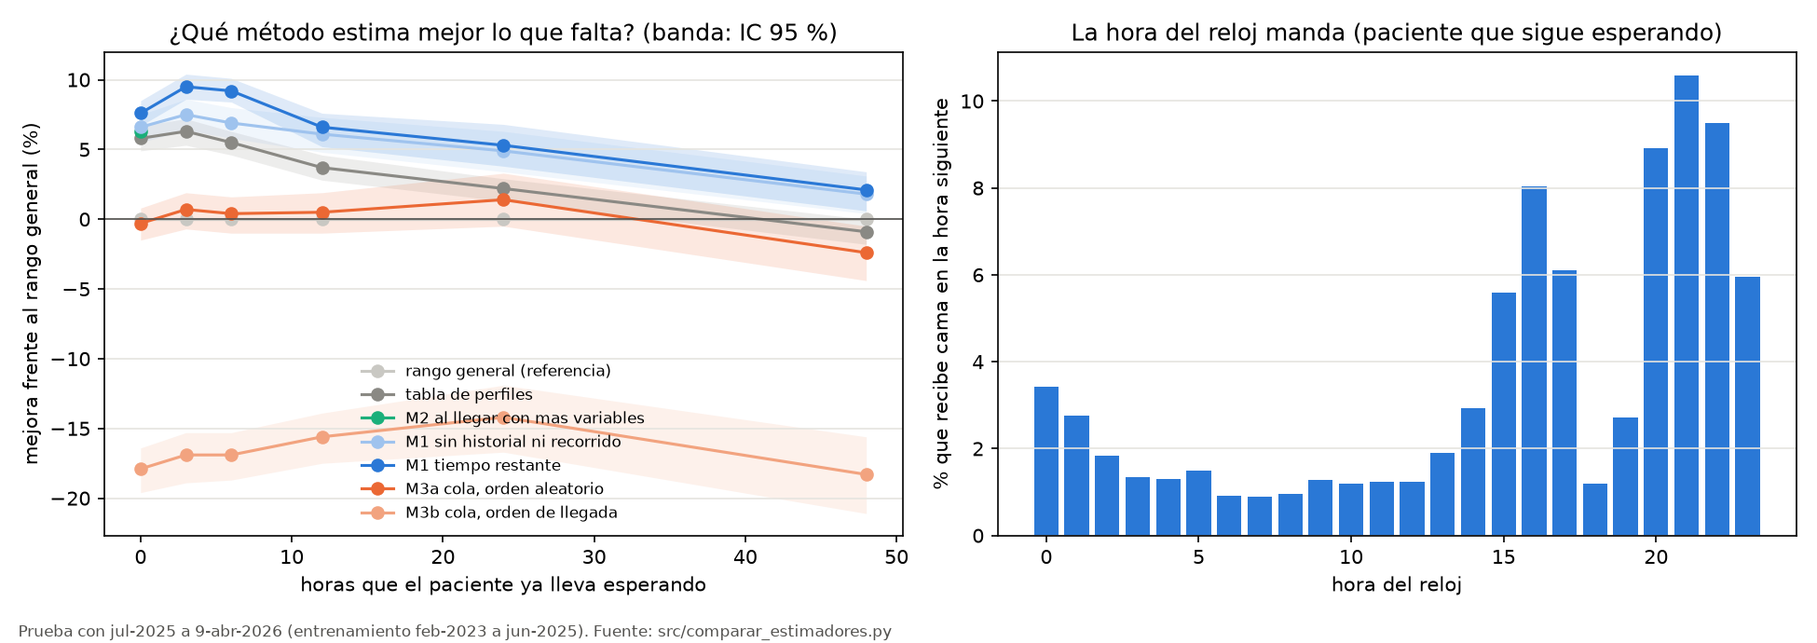
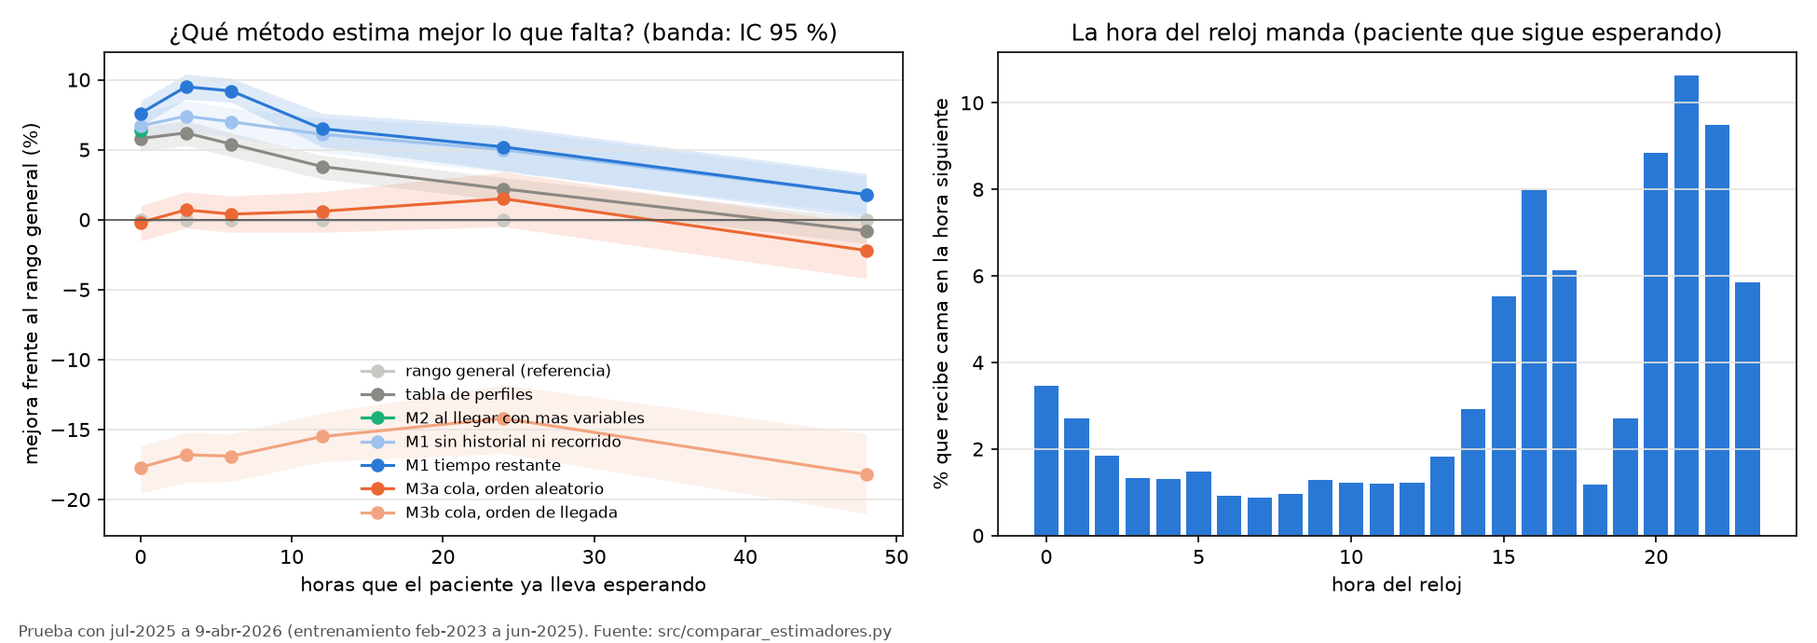
A6: recalcula los modelos con los procedimientos de cada estancia
Corrige edad y sexo con la persona real en las estancias del archivo, describe la espera por servicio y gravedad, y mide el escenario de conocerlos al llegar (de 7,6 % a 15,8 %, 18,6 % con el diagnostico).

diff --git a/src/procedimientos_escenario.py b/src/procedimientos_escenario.py
@@ -1,0 +1,110 @@
+"""
+procedimientos_escenario.py  -  version 1 (7-nov-2026)
+Tarea A6: recalcula los modelos con la informacion de los procedimientos (procedimientos_por_estancia.csv, extraido por Daniela para A2b).
+
+QUE MIDE
+  1. Descripcion: espera de cama segun el servicio que atendio al paciente y segun las marcas de gravedad (comparar_estimadores.procedimientos()).
+  2. Escenario: ¿cuanto mejoraria la estimacion si al llegar se supiera la gravedad y el servicio? Se recalculan los modelos que usan datos del paciente:
+       - el estimador final (tiempo restante: un modelo por momento antes de 12 h, solo historial despues),
+       - el modelo de cuantiles al llegar (M2),
+       - la tabla de perfiles (agregando el servicio como primera dimension),
+     con gravedad, con servicio, con ambos, con el grupo de diagnostico y con todo junto.
+     Los modelos de cola y las dos series no usan datos del paciente: los procedimientos no les cambian nada.
+
+OJO: los procedimientos NO tienen fecha. Una cesarea, una transfusion o el ingreso a UCI pueden ocurrir despues de recibir la cama, asi que el escenario es
+     una cota OPTIMISTA de lo que daria conocer la gravedad y el servicio al llegar, no un modelo que se pueda usar hoy. El 45 % de las estancias no tiene
+     ninguno de los 157 procedimientos del archivo (solo trae los que aparecen en 100 estancias o mas, y algunos menos frecuentes).
+
+LA PRUEBA  la misma de comparar_estimadores.py (entrenamiento feb-2023 a jun-2025, prueba jul-2025 a 9-abr-2026), al llegar y despues de 3, 6, 12 y 24 h.
+ENTRADAS  tabla_episodios.parquet (HUN_PROCESADOS); visit_detail.csv y procedimientos_por_estancia.csv (HUN_CRUDOS)
+SALIDAS   en HUN_TABLAS: procedimientos_espera_por_grupo.csv, procedimientos_escenario.csv
+COMO CORRERLO  HUN_PROCESADOS=... HUN_TABLAS=... HUN_CRUDOS=... python3 src/procedimientos_escenario.py   (~5 min)
+"""
+import sys
+from pathlib import Path
+
+import numpy as np
+import pandas as pd
+
+sys.path.insert(0, str(Path(__file__).resolve().parent))
+import comparar_estimadores as ce  # noqa: E402
+import estimador_tiempos as et  # noqa: E402
+
+NOMBRES_SERV = list(ce.SERVICIOS) + ["ninguno de esos servicios"]
+
+
+def describir(d):
+    filas = []
+    base = d.espera_cama_h
+    filas.append({"grupo": "todas las estancias", "estancias": len(d), "pct": 100.0, "espera_mediana_h": round(base.median(), 1), "espera_p90_h": round(base.quantile(.9), 1)})
+    for i, s in enumerate(NOMBRES_SERV):
+        g = d.loc[d.servicio_cod == i, "espera_cama_h"]
+        filas.append({"grupo": f"servicio: {s}", "estancias": len(g), "pct": round(100 * len(g) / len(d), 1), "espera_mediana_h": round(g.median(), 1), "espera_p90_h": round(g.quantile(.9), 1)})
+    for g_ in list(ce.GRAVEDAD):
+        g = d.loc[d[g_] == 1, "espera_cama_h"]
+        filas.append({"grupo": f"gravedad: {g_}", "estancias": len(g), "pct": round(100 * len(g) / len(d), 1), "espera_mediana_h": round(g.median(), 1), "espera_p90_h": round(g.quantile(.9), 1)})
+    for k in [0, 1, 2]:
+        g = d.loc[d.n_marcas_gravedad.clip(upper=2) == k, "espera_cama_h"]
+        filas.append({"grupo": f"marcas de gravedad: {k}{'+' if k == 2 else ''}", "estancias": len(g), "pct": round(100 * len(g) / len(d), 1),
+                      "espera_mediana_h": round(g.median(), 1), "espera_p90_h": round(g.quantile(.9), 1)})
+    return pd.DataFrame(filas)
+
+
+def perfiles_con_servicio(tr, te, desde):
+    dims = et.DIMS
+    try:
+        et.DIMS = ["servicio", "bloque_hora", "grupo_edad", "tipo_visita"]     # el servicio va primero: es lo ultimo que se quita si faltan casos
+        return ce.referencias(tr, te, desde)[1]
+    finally:
+        et.DIMS = dims
+
+
+if __name__ == "__main__":
+    pd.set_option("display.width", 230)
+    d, h, rejilla, estado = ce.preparar()
+    if "servicio_cod" not in d:
+        sys.exit("Falta procedimientos_por_estancia.csv en HUN_CRUDOS")
+    grupos = sorted(d.categoria_dx.dropna().unique())
+    d["dx_cod"] = d.categoria_dx.map({g: i for i, g in enumerate(grupos)})
+    d["servicio"] = pd.Series(NOMBRES_SERV)[d.servicio_cod.to_numpy()].to_numpy()
+
+    desc = describir(d)
+    desc.to_csv(ce.TABLAS / "procedimientos_espera_por_grupo.csv", index=False)
+    print("ESPERA DE CAMA POR SERVICIO Y GRAVEDAD (procedimientos sin fecha: descripcion, no causa)\n" + desc.to_string(index=False))
+
+    extras = {"sin procedimientos (estimador final)": [], "+ gravedad": ce.PROC_GRAV, "+ servicio": ce.PROC_SERV,
+              "+ gravedad y servicio": ce.PROC_GRAV + ce.PROC_SERV, "+ grupo de diagnostico": ["dx_cod"],
+              "+ todo (gravedad, servicio y diagnostico)": ce.PROC_GRAV + ce.PROC_SERV + ["dx_cod"]}
+    tr, te = d[d.ini_est < ce.CORTE].reset_index(drop=True), d[d.ini_est >= ce.CORTE].reset_index(drop=True)
+    filas = []
+    for desde in [0, 3, 6, 12, 24]:
+        sub = te[te.espera_cama_h > desde].reset_index(drop=True)
+        y = np.minimum(sub.espera_cama_h.to_numpy() - desde, ce.MAX_H)
+        general, perfil = ce.referencias(tr, sub, desde)
+        lg = ce.perdida_por_caso(y, general)
+        sem = sub.ini_est.dt.to_period("W").astype(str).to_numpy()
+        preds = {"tabla de perfiles": perfil, "tabla de perfiles + servicio": perfiles_con_servicio(tr, sub, desde)}
+        for nombre, extra in extras.items():
+            if desde < ce.HORAS_RECORRIDO:
+                m = ce.entrenar_landmark(tr, rejilla, estado, desde, ce.COLS_M1_FINAL + extra)
+            else:
+                m = ce.entrenar_m1(tr, rejilla, estado, ce.COLS_M1_BASE + ce.HIST + extra)
+            preds[f"estimador final {nombre}"] = ce.predecir_m1(m, sub, rejilla, estado, desde)
+        if desde == 0:
+            for nombre, extra in [("M2 al llegar", []), ("M2 al llegar + gravedad y servicio", ce.PROC_GRAV + ce.PROC_SERV)]:
+                cols = [c for c in ce.COLS_M2 if c != "cola0"] + extra
+                Xtr = ce.matriz_m2(tr, rejilla, estado).join(tr[extra]) if extra else ce.matriz_m2(tr, rejilla, estado)
+                Xte = ce.matriz_m2(sub, rejilla, estado).join(sub[extra]) if extra else ce.matriz_m2(sub, rejilla, estado)
+                ytr = np.log1p(tr.espera_cama_h.to_numpy())
+                pred = np.column_stack([np.expm1(ce.HistGradientBoostingRegressor(loss="quantile", quantile=q, max_iter=300, learning_rate=0.05, max_leaf_nodes=31,
+                                                                                   min_samples_leaf=100, random_state=ce.SEMILLA).fit(Xtr[cols], ytr).predict(Xte[cols]))
+                                        for q in ce.Q])
+                preds[nombre] = np.maximum.accumulate(np.clip(pred, 0, None), axis=1)
+        for nombre, p in preds.items():
+            lp = ce.perdida_por_caso(y, p)
+            lo, hi = ce.intervalo_mejora(sem, lp, lg)
+            filas.append({"horas_esperando": desde, "metodo": nombre, "n_prueba": len(y), "mejora_vs_general_pct": round(100 * (1 - lp.mean() / lg.mean()), 1),
+                          "ic95_bajo": round(lo, 1), "ic95_alto": round(hi, 1), "error_abs_mediana_h": round(np.mean(np.abs(y - p[:, 1])), 1),
+                          **{f"pct_debajo_p{int(q * 100)}": round(100 * np.mean(y <= p[:, j]), 1) for j, q in enumerate(ce.Q)}})
+        print(pd.DataFrame([f for f in filas if f["horas_esperando"] == desde]).to_string(index=False), flush=True)
+    pd.DataFrame(filas).to_csv(ce.TABLAS / "procedimientos_escenario.csv", index=False)

diff --git a/src/comparar_estimadores.py b/src/comparar_estimadores.py
@@ -35,6 +35,13 @@ HISTORIAL Y RECORRIDO (se conocen en el momento, sin trampa)
   ESTIMADOR FINAL: con menos de HORAS_RECORRIDO horas de espera, el modelo del momento (historial + recorrido); desde ahi, un solo modelo con el historial
   (el recorrido ya no suma: 6,8 frente a 6,6 % a las 12 h, 4,7 frente a 5,3 % a las 24 h). OJO: el corte de 12 h se eligio mirando la prueba.
 
+PROCEDIMIENTOS (si existe procedimientos_por_estancia.csv en HUN_CRUDOS; extraido por Daniela para A2b, lote 5)
+  1. Corrige la edad y el sexo de esas estancias con los de la persona real (CLAUDE.md 4.10), que trae el archivo.
+  2. Marca la GRAVEDAD (UCI, gases arteriales, lactato, troponina, transfusion, cateter central, hemocultivos, TAC de cabeza, monitoreo cardiaco) y el
+     SERVICIO que atendio al paciente (ginecobstetricia, cirugia general, urologia, ortopedia, psiquiatria, pediatria, endoscopia digestiva).
+  Los procedimientos NO tienen fecha: pueden ser de despues de recibir cama. Solo se usan como ESCENARIO (src/procedimientos_escenario.py), no en el
+  estimador final.
+
 COLA Y OCUPACION
   Por hora y por zona (adultos de 15 anos o mas, ninos), con estancias unicas: ocupacion = pacientes en cama; cola = pacientes que ya llegaron, se
   hospitalizaran y aun no tienen cama. OJO: la cola usa saber quien se hospitalizara despues; en el hospital equivale a los pacientes con orden de
@@ -103,12 +110,57 @@ def preparar():
     d["llegadas_6h"] = d.get("llegadas_6h_previas", pd.Series(np.nan, index=d.index))
     d = d.reset_index(drop=True)
     d["clave"] = np.arange(len(d))
+    d = procedimientos(d)
     d = historial(t, d)
     cargar_etapas(d)
     return d, h, rejilla, estado
 
 
 GRUPOS_DX = None
+GRAVEDAD = {"uci": [4137917], "gases_arteriales": [4239236], "lactato": [3014111], "troponina": [3033745],
+            "transfusion": [4323715, 4219996, 4205859, 4271693], "cateter_central": [4322380], "hemocultivo": [4252846, 4252847],
+            "tac_cabeza": [4125350], "monitoreo_cardiaco": [4144544]}
+SERVICIOS = {   # en orden de prioridad para el servicio principal
+    "ginecobstetricia": [4138639, 4149939, 4070024, 37312440, 42536960, 4170107, 4324607, 44790279, 37016955, 4073278, 4064145, 4149132,
+                         4015701, 4327269, 4062216],
+    "cirugia_general": [4139904, 4198190, 4163971, 2003447, 43531100, 4119555, 37157276, 4157529, 4125906, 4134713],
+    "urologia": [4125854, 4305063, 46232820, 4171400, 3031769],
+    "ortopedia": [37208848, 37016880, 2790145, 37016878, 1072908, 37204684, 1072944, 3009096, 37204683, 37019010],
+    "psiquiatria": [4136624, 4012657, 4230209, 4013683],
+    "pediatria": [4080075],
+    "endoscopia_digestiva": [4294382, 4249893],
+}
+PROC_GRAV = list(GRAVEDAD) + ["n_marcas_gravedad"]
+PROC_SERV = ["servicio_cod"] + list(SERVICIOS)
+
+
+def procedimientos(d):
+    """Corrige edad y sexo con la persona real y agrega gravedad y servicio desde procedimientos_por_estancia.csv (si existe)."""
+    ruta = CRUDOS / "procedimientos_por_estancia.csv"
+    if not ruta.exists():
+        return d
+    pr = pd.read_csv(ruta)
+    pers = pr.drop_duplicates("estancia_id").set_index("estancia_id")[["grupo_edad", "sexo"]]
+    m = d.estancia_id.map(pers.grupo_edad)
+    s = d.estancia_id.map(pers.sexo)
+    d["grupo_edad"] = m.fillna(d.grupo_edad)
+    d["sexo"] = s.where(s.isin(["Mujer", "Hombre"]), d.sexo)
+    d["edad_cod"] = d.grupo_edad.map({e: i for i, e in enumerate(et.EDADES)})
+    d["sexo_cod"] = (d.sexo == "Mujer").astype(int)
+    d["zona"] = np.where(d.grupo_edad.isin(["0-4", "5-14"]), "ninos", "adultos")
+    d["zona_cod"] = (d.zona == "ninos").astype(int)
+    tiene = pr.groupby("estancia_id").concepto.apply(set)
+    conj = d.estancia_id.map(tiene)
+    d["con_procedimientos"] = conj.notna().astype(int)
+    vacio = set()
+    for nombre, ids in {**GRAVEDAD, **SERVICIOS}.items():
+        d[nombre] = [int(bool((c if isinstance(c, set) else vacio) & set(ids))) for c in conj]
+    d["n_marcas_gravedad"] = d[list(GRAVEDAD)].sum(axis=1)
+    serv = np.full(len(d), len(SERVICIOS))                  # ultimo codigo = ninguno de esos servicios
+    for i, nombre in reversed(list(enumerate(SERVICIOS))):
+        serv = np.where(d[nombre] == 1, i, serv)
+    d["servicio_cod"] = serv
+    return d
 
 
 def historial(t, d):
@@ -247,7 +299,7 @@ HIST = ["espera_prev_h", "estancia_prev_h", "n_hosp_previas", "dias_desde_hosp",
 REC = ["n_tu_iniciadas", "n_tu_cerradas_antes", "n_tu_sin_cierre", "horas_tu_cerradas_antes", "horas_desde_ultimo_inicio", "n_admisiones"]
 DINAMICAS = ["transcurrido", "hora_reloj", "dia_semana", "cola", "ocup"] + REC
 COLS_M1 = ["transcurrido", "hora_reloj", "dia_semana", "cola", "ocup", "edad_cod", "tipo_cod", "sexo_cod", "zona_cod"]
-CATEGORICAS = ["hora_reloj", "dia_semana", "tipo_cod", "dx_cod", "dx_previo_cod"]
+CATEGORICAS = ["hora_reloj", "dia_semana", "tipo_cod", "dx_cod", "dx_previo_cod", "servicio_cod"]
 COLS_M1_BASE = [c for c in COLS_M1 if c != "cola"]      # la cola no mejora la estimacion y no se conoce del todo en el momento
 COLS_M1_FINAL = COLS_M1_BASE + HIST + REC
 

diff --git a/docs/estimador_tiempos.md b/docs/estimador_tiempos.md
@@ -7,7 +7,7 @@
 2. **El estimador es un modelo de tiempo restante.** Para un paciente que espera cama, da el rango de lo que le falta (percentiles 25, 50, 75 y 90) y la probabilidad de recibir cama en 6, 12 y 24 horas, y se recalcula a medida que pasa la espera. Usa el paciente, la hora del reloj, la ocupación, su historial de hospitalizaciones y su recorrido en urgencias, todo conocido en el momento. Se consulta con `estimar_tiempo_restante()`.
 3. **Funciona mejor que todo lo demás que probamos, pero el techo es bajo.** Mejora el rango 7,6 % al llegar y 9,2–9,5 % entre las 3 y las 6 horas de espera, frente a darle a todos el mismo rango. Sus percentiles aciertan en datos nuevos, y le gana con margen comprobado a las otras cinco alternativas.
 4. **Lo que más decide cuándo llega la cama es la hora del reloj:** entre las 6 y las 12 h casi nadie recibe cama; las camas se asignan entre las 15 y las 17 h y entre las 20 y las 23 h.
-5. **Lo que de verdad lo mejoraría es registrar el triage.** Con una aproximación a la gravedad al llegar, la mejora llega a 12,7 %, más que con cualquier cambio de modelo.
+5. **Lo que de verdad lo mejoraría es saber, al llegar, la gravedad y el servicio.** Los procedimientos de cada estancia muestran que el hospital da cama rápido a los graves (UCI: mediana 2,7 h) y hace esperar más a cirugía, urología y ortopedia (30–38 h). Si esa información se conociera al llegar, la mejora pasaría de 7,6 % a 15,8 %, y a 18,6 % sumando el diagnóstico. Es más que cualquier cambio de modelo, y es el argumento para registrar el triage y el servicio en la base.
 
 ---
 
@@ -28,7 +28,26 @@ Los datos crudos lo confirman: el 24 % de las camas se asigna entre las 15 y las
 
 **1.4 El recorrido en urgencias.** Son los registros de las etapas de urgencias de la propia visita (`visit_detail`). En tiempo real, sin trampa, se puede saber cuántas etapas de atención empezaron, cuántas cerraron y cuántas siguen abiertas. Por ejemplo, quien a las 6 h tiene 2 o más etapas abiertas a la vez (~5 % de los pacientes) recibe cama mucho antes: le faltan unas 5 h en la mediana, contra 23 h para el resto.
 
-**1.5 Lo que no está: la gravedad.** En urgencias la prioridad se define con el triage, de I (inmediata) a V (muy baja). La base no lo trae: no está en ninguna tabla y la etapa 9203 solo trae la hora. La sección 4 estima cuánto ayudaría.
+**1.5 La gravedad y el servicio.** En urgencias la prioridad se define con el triage, de I (inmediata) a V (muy baja). La base no lo trae: no está en ninguna tabla, la etapa 9203 solo trae la hora y entre los 157 procedimientos frecuentes no hay ninguno llamado «triage». Lo que sí hay son los **procedimientos de cada estancia** (`procedimientos_por_estancia.csv`, extraído por Daniela para A2b). Con ellos se marcaron dos cosas:
+- **Gravedad:** UCI, gases arteriales, lactato, troponina, transfusión, catéter central, hemocultivos, TAC de cabeza y monitoreo cardiaco.
+- **Servicio que atendió al paciente:** ginecobstetricia, cirugía general, urología, ortopedia, psiquiatría, pediatría y endoscopia digestiva, según interconsultas, remisiones y cirugías.
+
+| Grupo | % de las estancias | Espera mediana | p90 |
+|---|---|---|---|
+| Todas | 100 % | 18,5 h | 72,9 h |
+| **Urología** | 4,1 % | **37,7 h** | 105,1 h |
+| **Ortopedia** | 3,2 % | **32,8 h** | 106,0 h |
+| **Cirugía general** | 11,5 % | **29,6 h** | 89,2 h |
+| Endoscopia digestiva | 1,2 % | 26,4 h | 76,4 h |
+| Ginecobstetricia | 12,2 % | 15,9 h | 38,4 h |
+| Psiquiatría | 2,7 % | 15,0 h | 70,2 h |
+| Pediatría | 0,9 % | 7,3 h | 22,7 h |
+| Ninguno de esos servicios | 64,1 % | 14,9 h | 69,7 h |
+| **Ingreso a UCI** | 3,8 % | **2,7 h** | 36,5 h |
+| Hemocultivo | 10,9 % | 5,5 h | 75,5 h |
+| Troponina | 4,9 % | 6,9 h | 49,5 h |
+
+**Lectura:** el hospital da cama rápido a los pacientes graves y hace esperar más a los quirúrgicos y urológicos. Es el mismo patrón que mostraban los diagnósticos (`HALLAZGOS.md` 4.5b), ahora visto desde los servicios. **Ojo: los procedimientos no tienen fecha.** Algunos pueden haber ocurrido después de recibir la cama (una cesárea, una transfusión), y el catéter central, por ejemplo, aparece en estancias muy largas porque se pone durante ellas (espera mediana 47,4 h). Es una descripción, no una causa.
 
 ---
 
@@ -63,11 +82,11 @@ estimar_tiempo_restante(edad=67, sexo="Mujer", tipo_visita="Urgencias", horas_es
 
 | Paciente | Faltan: p25 / mediana / p75 / p90 | Prob. de cama en 6 / 12 / 24 h |
 |---|---|---|
-| Mujer de 67 años, urgencias, recién llegada a las 9:00, sin historial | 12,0 / 32,1 / 56,9 / 84,7 h | 15 / 25 / 41 % |
-| La misma, con 2 hospitalizaciones previas (la última: 60 h de espera, 200 h de estancia) | 20,0 / 39,9 / 77,1 / 109,3 h | 5 / 13 / 26 % |
-| La misma sin historial, 6 h después: una etapa cerrada y una abierta | 10,8 / 30,5 / 54,9 / 96,7 h | 12 / 26 / 33 % |
-| La misma sin historial, 6 h después: tres etapas abiertas | 5,5 / 7,7 / 24,3 / 31,5 h | 32 / 67 / 74 % |
-| Niña de 8 años, urgencias, recién llegada a las 22:00 | 4,3 / 13,6 / 23,4 / 45,7 h | 33 / 47 / 77 % |
+| Mujer de 67 años, urgencias, recién llegada a las 9:00, sin historial | 12,1 / 32,2 / 56,7 / 84,4 h | 15 / 25 / 41 % |
+| La misma, con 2 hospitalizaciones previas (la última: 60 h de espera, 200 h de estancia) | 15,8 / 37,8 / 63,6 / 108,2 h | 6 / 13 / 28 % |
+| La misma sin historial, 6 h después: una etapa cerrada y una abierta | 10,6 / 30,4 / 54,9 / 96,1 h | 12 / 26 / 33 % |
+| La misma sin historial, 6 h después: tres etapas abiertas | 5,5 / 7,8 / 24,4 / 31,6 h | 31 / 65 / 74 % |
+| Niña de 8 años, urgencias, recién llegada a las 22:00 | 4,6 / 14,8 / 23,7 / 46,2 h | 31 / 45 / 76 % |
 
 ---
 
@@ -78,43 +97,58 @@ estimar_tiempo_restante(edad=67, sexo="Mujer", tipo_visita="Urgencias", horas_es
 
 | Horas esperando | Tabla de perfiles | Modelo sin historial ni recorrido | + historial | **Estimador final** (IC 95 %) |
 |---|---|---|---|---|
-| 0 (al llegar) | 5,8 % | 6,6 % | 7,6 % | **7,6 % (6,7 a 8,5)** |
-| 3 h | 6,3 % | 7,5 % | 8,2 % | **9,5 % (8,6 a 10,4)** |
-| 6 h | 5,5 % | 6,9 % | 7,6 % | **9,2 % (8,4 a 10,1)** |
-| 12 h | 3,7 % | 6,1 % | 6,6 % | **6,6 % (5,2 a 7,6)** |
-| 24 h | 2,2 % | 4,9 % | 5,3 % | **5,3 % (3,8 a 6,8)** |
-| 48 h | −0,9 % | 1,8 % | 2,1 % | **2,1 % (0,6 a 3,4)** |
+| 0 (al llegar) | 5,8 % | 6,7 % | 7,5 % | **7,6 % (6,7 a 8,5)** |
+| 3 h | 6,2 % | 7,4 % | 8,2 % | **9,5 % (8,6 a 10,4)** |
+| 6 h | 5,4 % | 7,0 % | 7,6 % | **9,2 % (8,4 a 10,1)** |
+| 12 h | 3,8 % | 6,1 % | 6,5 % | **6,5 % (5,2 a 7,6)** |
+| 24 h | 2,2 % | 5,0 % | 5,2 % | **5,2 % (3,5 a 6,7)** |
+| 48 h | −0,8 % | 1,8 % | 1,8 % | **1,8 % (0,1 a 3,3)** |
 
-**¿Aciertan los percentiles?** Lo ideal es que el 25 / 50 / 75 / 90 % de los casos nuevos quede por debajo de cada uno. Con el estimador final quedan 26,3 / 51,4 / 73,8 / 87,7 % al llegar y 25,8 / 49,6 / 71,8 / 86,9 % a las 6 h. El p90 queda algo corto (87–88 %) porque los peores casos siguen empeorando (`HALLAZGOS.md` 4.3); conviene leerlo como un piso.
+**¿Aciertan los percentiles?** Lo ideal es que el 25 / 50 / 75 / 90 % de los casos nuevos quede por debajo de cada uno. Con el estimador final quedan 26,5 / 51,7 / 74,0 / 87,8 % al llegar y 25,9 / 49,3 / 71,9 / 87,2 % a las 6 h. El p90 queda algo corto (87–88 %) porque los peores casos siguen empeorando (`HALLAZGOS.md` 4.3); conviene leerlo como un piso.
 
 **Cómo leerlo:**
-- **Contra la tabla de perfiles, la ventaja es real en todos los momentos:** el intervalo de la diferencia nunca incluye el 0 (+1,3 a +2,5 puntos al llegar; +3,3 a +4,8 a las 6 h).
-- **Contra el modelo de cuantiles al llegar,** que era el segundo mejor, la ventaja también es real: +0,9 a +1,9 puntos.
+- **Contra la tabla de perfiles, la ventaja es real en todos los momentos:** el intervalo de la diferencia nunca incluye el 0 (+1,3 a +2,6 puntos al llegar; +3,3 a +4,9 a las 6 h).
+- **Contra el modelo de cuantiles al llegar,** que era el segundo mejor, la ventaja también es real: +0,8 a +1,8 puntos.
 - **El historial suma desde la llegada, y el recorrido en las primeras horas** (probado a las 3 y a las 6 h). Desde las 12 h, la espera depende de otras cosas.
 - **El techo es bajo:** el error de la mediana sigue siendo de unas 24 h al llegar.
 
-**Agosto y septiembre de 2025.** Según el equipo, el HUN tuvo sobredemanda porque los hospitales cercanos fueron intervenidos por el Estado y quedó como la única opción de la zona. En los datos se ve poco: un 6–7 % más de llegadas que en los mismos meses de 2024, con ingresos a cama y espera mediana normales. Evaluado aparte, el estimador mejora 7,3 % en esos meses y 7,7 % en el resto. El resultado se sostiene.
+**Agosto y septiembre de 2025.** Según el equipo, el HUN tuvo sobredemanda porque los hospitales cercanos fueron intervenidos por el Estado y quedó como la única opción de la zona. En los datos se ve poco: un 6–7 % más de llegadas que en los mismos meses de 2024, con ingresos a cama y espera mediana normales. Evaluado aparte, el estimador mejora 7,2 % en esos meses y 7,7 % en el resto. El resultado se sostiene.
+
+**Edad y sexo corregidos.** Las cifras de esta sección ya usan la edad y el sexo de la persona real en las 14.126 estancias que trae `procedimientos_por_estancia.csv` (difieren de los nuestros en el 4 % de esas estancias en la edad y en el 2 % en el sexo). Con la corrección, los resultados prácticamente no cambian.
 
 ---
 
-## 4. Qué haría falta para mejorarlo
-**La gravedad (triage).** Código: `src/triage_aproximado.py`. Se probaron dos aproximaciones dentro del modelo con historial, y ninguna es el triage:
-- **Laboratorios de las primeras 6 h:** se conocen a las 6 h.
-- **Grupo de diagnóstico:** el 88 % se registra tarde y el 35 % de las estancias no tiene ninguno. Se usa como **escenario**: «¿cuánto mejoraría si el HUN registrara la gravedad al llegar?».
+## 4. Qué haría falta para mejorarlo: la gravedad y el servicio al llegar
+Código: `src/procedimientos_escenario.py` (procedimientos) y `src/triage_aproximado.py` (laboratorios). Se recalcularon todos los modelos que usan datos del paciente agregando lo que dicen los procedimientos (gravedad y servicio, sección 1.5) y el grupo de diagnóstico. Los modelos de cola y las dos series no usan datos del paciente, así que no cambian.
 
-| Horas esperando | Sin gravedad | + laboratorios de 6 h | + grupo de diagnóstico (escenario) |
-|---|---|---|---|
-| Al llegar | 7,6 % | 8,0 % (no válido: se conocen a las 6 h) | **12,7 %** |
-| 6 h | 7,6 % | 7,6 % | **10,9 %** |
-| 12 h | 6,6 % | 6,5 % | 9,0 % |
-| 24 h | 5,3 % | 4,8 % | 6,5 % |
-| 48 h | 2,1 % | 1,8 % | 2,0 % |
+**Es un escenario, no un modelo para hoy:** los procedimientos no tienen fecha y el 88 % de los diagnósticos se registra tarde. La pregunta es «¿cuánto mejoraría si el hospital supiera esto al llegar?», y la respuesta es una cota optimista.
 
-Una medida de gravedad al llegar mejoraría más que cualquier cambio de modelo, y un triage real debería servir más que el diagnóstico. Es un argumento concreto para la recomendación R1 (`docs/recomendaciones.md`): **registrar el nivel de triage en la base.** Los laboratorios tempranos casi no ayudan.
+**Estimador final** (mejora frente al rango general):
+
+| Horas esperando | Sin procedimientos | + gravedad | + servicio | + gravedad y servicio | + diagnóstico | **+ todo** |
+|---|---|---|---|---|---|---|
+| Al llegar | 7,6 % | 11,7 % | 11,5 % | 15,8 % | 12,5 % | **18,6 % (17,5 a 19,8)** |
+| 3 h | 9,5 % | 12,0 % | 13,0 % | 15,0 % | 12,3 % | **16,9 %** |
+| 6 h | 9,2 % | 11,2 % | 11,9 % | 13,6 % | 12,1 % | **15,3 %** |
+| 12 h | 6,5 % | 9,1 % | 8,9 % | 11,2 % | 9,4 % | **12,3 %** |
+| 24 h | 5,2 % | 8,1 % | 7,1 % | 9,6 % | 7,3 % | **9,4 %** |
+
+**Los otros modelos con la misma información, al llegar:**
+- **Modelo de cuantiles:** pasa de 6,4 % a 15,1 % con gravedad y servicio.
+- **Tabla de perfiles:** pasa de 5,8 % a 8,5 % agregando el servicio como primera dimensión.
+
+En todos los casos los percentiles siguen bien calibrados (al llegar, con todo: 25,4 / 50,2 / 72,8 % debajo de p25 / p50 / p75).
+
+**Qué significa:**
+1. **La gravedad y el servicio son la información que faltaba.** Juntos duplican la mejora al llegar (de 7,6 % a 15,8 %), y con el diagnóstico la llevan a 18,6 %. Ningún cambio de modelo se acercó a eso. El error de la mediana baja de 23,8 h a 21,1 h.
+2. **Gravedad y servicio aportan cosas distintas,** porque juntos suman más que cada uno por separado. La gravedad dice quién recibe cama rápido (UCI); el servicio dice quién espera más (cirugía, urología, ortopedia).
+3. **Un triage real debería servir todavía más,** porque se registra al llegar y no tiene el ruido de los procedimientos sin fecha.
+4. **Los laboratorios tempranos casi no ayudan** (−0,1 a +0,7 puntos, `src/triage_aproximado.py`).
+
+**Para la recomendación R1** (`docs/recomendaciones.md`): **registrar en la base el nivel de triage y el servicio que recibirá al paciente**, con su hora. Con esos dos datos, la estimación de la espera de cada paciente podría mejorar alrededor del doble.
 
 **Otros pendientes:**
-- **Correcciones de datos:** pedir a Daniela `P02_persona_de_los_diagnosticos.csv` y `P03_persona_de_los_laboratorios.csv` para corregir la edad y el sexo de las estancias duplicadas, y volver a correr.
-- **Gravedad desde los procedimientos:** con `Q01_procedimientos_por_estancia.csv` y `Q03_nombres_de_conceptos.csv` (lote 5, ya extraídos por Daniela) se puede armar una medida de gravedad (UCI, vía aérea, transfusión, reanimación) y buscar si algún concepto se llama «triage». Los procedimientos no tienen fecha, así que serviría como escenario.
+- **Corrección completa de edad y sexo:** con `procedimientos_por_estancia.csv` ya se corrigieron las 14.126 estancias que trae (55 %). Para el resto, pedir a Daniela `P02_persona_de_los_diagnosticos.csv` y `P03_persona_de_los_laboratorios.csv`.
 - **Dashboard:** la estructura (`docs/estructura_dashboard.md`) no tiene página para A6. Como el dashboard está en Dash (Python), la página puede llamar a `estimar_tiempo_restante()`. Falta decidir con Daniela dónde va y si los modelos guardados pueden publicarse: contienen los cortes de los árboles, no filas de pacientes, pero salen de datos clínicos.
 
 ---
@@ -128,6 +162,7 @@ Una medida de gravedad al llegar mejoraría más que cualquier cambio de modelo,
 | Cola en orden de llegada (M3b) | −17,9 % | El orden de llegada casi no predice el orden de cama (`CLAUDE.md` 6b) |
 | Cola en orden aleatorio (M3a) | −0,3 % | La cola casi no cambia la espera |
 | Espera en dos series: con la zona llena («sin cama») y con camas libres («demora del servicio») (`src/espera_dos_series.py`) | No mejora el pronóstico frente a una sola serie (~4,5 h de error semanal) | Es frágil: con las camas del HUN, la parte sin cama pasa del 8 % (2023) al 56 % (2025), pero con un 10 % más de camas queda en 5–10 %. Queda como lectura descriptiva |
+| Laboratorios de las primeras 6 h como aproximación a la gravedad | −0,1 a +0,7 puntos | Casi no ayudan |
 | Efecto del día o de la hora de llegada | 0,1 % a 2,3 % más allá del azar | La espera es individual |
 | Hora del primer diagnóstico como momento de la decisión de hospitalizar | Casi siempre coincide con la llegada | No marca la decisión |
 
@@ -138,19 +173,19 @@ Una medida de gravedad al llegar mejoraría más que cualquier cambio de modelo,
 - **La espera termina en la asignación administrativa.** Mezcla la atención clínica en urgencias con la espera de cama, y no se pueden separar.
 - **Cama o silla:** según el equipo, a muchos pacientes se les atiende en sillas aunque necesiten una cama, y no se sabe si eso se registra como estar en cama. La base no tiene columna de cama, silla, piso ni servicio (`CLAUDE.md` 4.8). Si se registra, la espera real hasta una cama sería más larga, la falta de camas mayor de lo que muestran los datos y la ocupación incluiría puestos que no son camas (lo que explicaría que pase de las 106 camas el 42 % de las horas de 2025).
 - **El recorrido supone que el sistema registra cada etapa cuando empieza.** No se pudo comprobar. Si las etapas se cargan después, el recorrido no estaría disponible en tiempo real.
-- **Edad y sexo de las estancias duplicadas:** esta corrida no tuvo `P02` y `P03`. En las estancias registradas en dos personas se conservó el registro con más información, que es el de la persona real en ~81–85 % de los casos (`CLAUDE.md` 4.10). Lo mismo afecta al historial, que se busca por persona.
+- **Edad y sexo de las estancias duplicadas:** se corrigieron con la persona real en las 14.126 estancias de `procedimientos_por_estancia.csv` (55 %). En el resto se conservó el registro con más información, que es el de la persona real en ~81–85 % de los casos (`CLAUDE.md` 4.10). El historial, que se busca por persona, tiene la misma limitación.
 - **La ocupación hacia adelante se deja fija** en el último valor conocido.
 - **Asociación, no causa.**
 
 ---
 
 ## 7. Cómo reproducirlo
-Los datos viven fuera del proyecto. Se indican con tres variables (en Bash):
+Los datos viven fuera del proyecto. Se indican con tres variables (en Bash). `HUN_CRUDOS` es la carpeta con `visit_detail.csv` y `procedimientos_por_estancia.csv`; este último corrige la edad y el sexo y alimenta los escenarios.
 ```bash
 export HUN_PROCESADOS="D:/Descargas D/Datos/procesados" HUN_TABLAS="D:/Descargas D/Datos/procesados/tablas" HUN_CRUDOS="D:/Descargas D/Datos"
 ```
 1. **Tabla de episodios:** `src/analisis_etapas.py` y `src/preparar_variables.py`, con los CSV de la base en `datos/crudos/`. Copiarlos ahí solo mientras corren y mover luego `datos/procesados/` a la carpeta externa.
 2. **Construcción y prueba del estimador:** `python3 src/comparar_estimadores.py` (~1,5 min). Escribe `comparacion_estimadores_*.csv` en `HUN_TABLAS` y `resultados/graficos/comparacion_estimadores.png`.
-3. **Escenario de gravedad:** `python3 src/triage_aproximado.py`.
+3. **Escenarios de gravedad y servicio:** `python3 src/procedimientos_escenario.py` (~4 min; necesita `procedimientos_por_estancia.csv` en `HUN_CRUDOS`) y `python3 src/triage_aproximado.py` (laboratorios).
 4. **Alternativas:** `python3 src/estimador_tiempos.py` (tabla de perfiles) y `python3 src/espera_dos_series.py` (dos series).
 5. **Consulta:** `python3 src/estimador_tiempo_restante.py 67 Mujer Urgencias 6 "2026-03-04 15:00"`. Sin argumentos muestra los ejemplos de la sección 2.

diff --git a/docs/pendientes_y_reparto.md b/docs/pendientes_y_reparto.md
@@ -102,7 +102,7 @@ demanda, alertas, días atípicos, borrador de recomendaciones y un repositorio 
 - **Ojo:** la ocupación observada debe salir de estancias únicas (~100 camas), no de `serie_horaria.csv` viejo.
 
 ### A6. Estimar tiempos de atención (componente 3) · **Samuel** — **HECHA el 7-nov-2026** (`docs/estimador_tiempos.md`; función de consulta `src/estimador_tiempo_restante.py`)
-- **Resultado:** la espera de cama es individual (no depende del momento de llegada). Estimador: modelo de tiempo restante con el paciente, la hora del reloj, la ocupación, su historial y su recorrido en urgencias; mejora 7,6 % al llegar y 9,2–9,5 % a las 3–6 h (IC comprobados) frente al rango general, con percentiles calibrados, y le gana a las otras cinco alternativas. Techo bajo (error de la mediana ~24 h); con una aproximación a la gravedad llegaría a 12,7 %, argumento para registrar el triage. Pendiente: P02 y P03 de Daniela (edad y sexo de las gemelas), gravedad desde procedimientos (Q01 y Q03) y la página del dashboard.
+- **Resultado:** la espera de cama es individual (no depende del momento de llegada). Estimador: modelo de tiempo restante con el paciente, la hora del reloj, la ocupación, su historial y su recorrido en urgencias; mejora 7,6 % al llegar y 9,2–9,5 % a las 3–6 h (IC comprobados) frente al rango general, con percentiles calibrados, y le gana a las otras cinco alternativas. Techo bajo (error de la mediana ~24 h). Con los procedimientos de Daniela (7-nov): edad y sexo corregidos en el 55 % de las estancias; el hospital da cama rápido a los graves (UCI 2,7 h) y hace esperar a urología, ortopedia y cirugía (30–38 h); si al llegar se supieran la gravedad y el servicio, la mejora llegaría a 15,8 % (18,6 % con el diagnóstico), argumento para registrar el triage y el servicio. Pendiente: P02 y P03 para el resto de las estancias y la página del dashboard.
 - **Qué pide el instructivo:** "modelos analíticos o predictivos que permitan estimar tiempos de atención". Es decir: cuando llega un paciente, ¿cuántas horas va a estar
   en urgencias, cuánto va a esperar cama o cuánto se va a quedar hospitalizado?
 - **Dónde estamos:** por paciente no se logra (esperar más de 24 h: AUC 0,60; estancia: R² cercano a 0; duración de urgencias de quien se va de alta: solo el 38 % tiene

diff --git a/docs/HALLAZGOS.md b/docs/HALLAZGOS.md
@@ -213,7 +213,7 @@ de las llegadas pronosticadas; factores externos (clima, dengue, eventos).
 - **La espera es individual:** los pacientes que llegan el mismo día no esperan parecido (el día explica un 0,1 % más allá del azar). La ocupación y la cola casi no ayudan.
 - **Estimador: modelo de tiempo restante** (`src/estimador_tiempo_restante.py`). Da el rango de lo que le falta a un paciente que espera cama y la probabilidad de recibirla en 6, 12 y 24 h. Usa el paciente, la hora del reloj, la ocupación, su historial (la espera se repite: Spearman 0,34 con la hospitalización anterior) y su recorrido en urgencias, con un modelo por momento de la espera.
 - **Prueba** (entrenamiento feb-2023 a jun-2025, prueba jul-2025 a 9-abr-2026, 5.430 estancias): mejora 7,6 % al llegar (IC 95 % 6,7 a 8,5) y 9,2–9,5 % a las 3–6 h frente a dar el mismo rango a todos; los percentiles aciertan (26,3 / 51,4 / 73,8 / 87,7 % debajo de p25 / p50 / p75 / p90). Le gana con margen comprobado a la tabla de perfiles, a un modelo de cuantiles y a dos modelos de cola. Agosto y septiembre de 2025 (sobredemanda, dato del equipo) dan el mismo resultado.
-- **Límite:** el error de la mediana sigue en ~24 h. Con una aproximación a la gravedad al llegar (grupo de diagnóstico, como escenario) la mejora llega a 12,7 %: **registrar el triage** es la mejora de datos que más ayudaría.
+- **Gravedad y servicio (procedimientos de cada estancia, sin fecha):** el hospital da cama rápido a los graves (UCI: mediana 2,7 h) y hace esperar más a urología (37,7 h), ortopedia (32,8 h) y cirugía general (29,6 h). Si al llegar se supieran la gravedad y el servicio, la mejora pasaría de 7,6 % a 15,8 % (18,6 % sumando el diagnóstico; escenario optimista). **Registrar el triage y el servicio** es la mejora de datos que más ayudaría.
 - **La hora del reloj manda:** el 24 % de las camas se asigna entre las 15 y las 17 h y el 37 % entre las 20 y las 23 h; entre las 6 y las 12 h casi nadie recibe cama.
 
 ---
